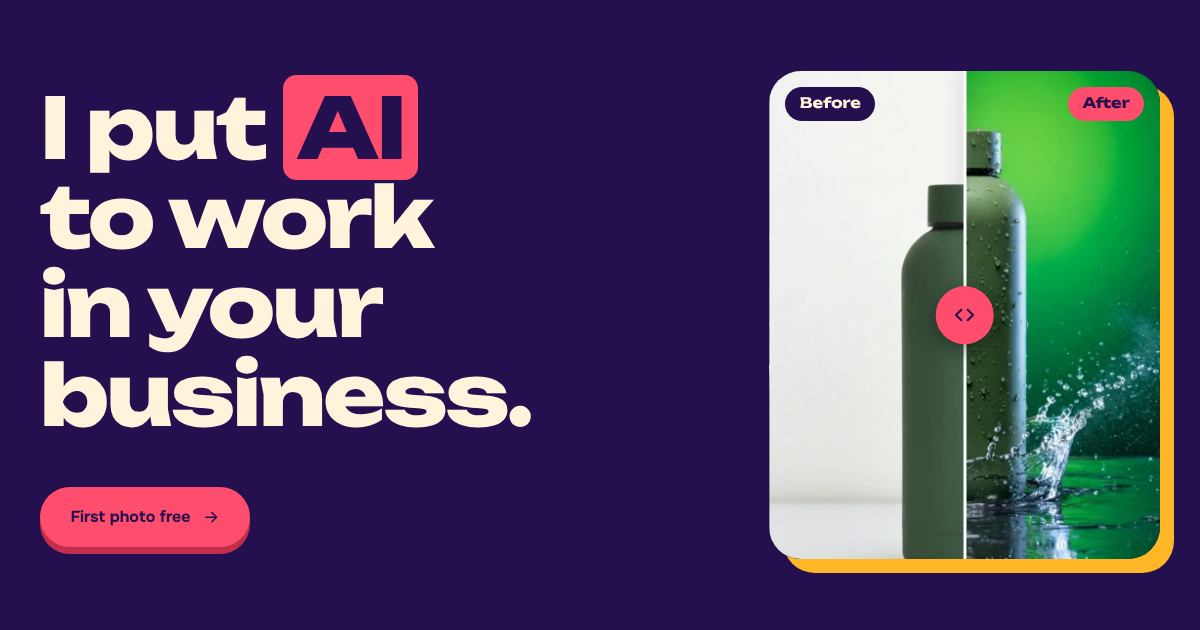
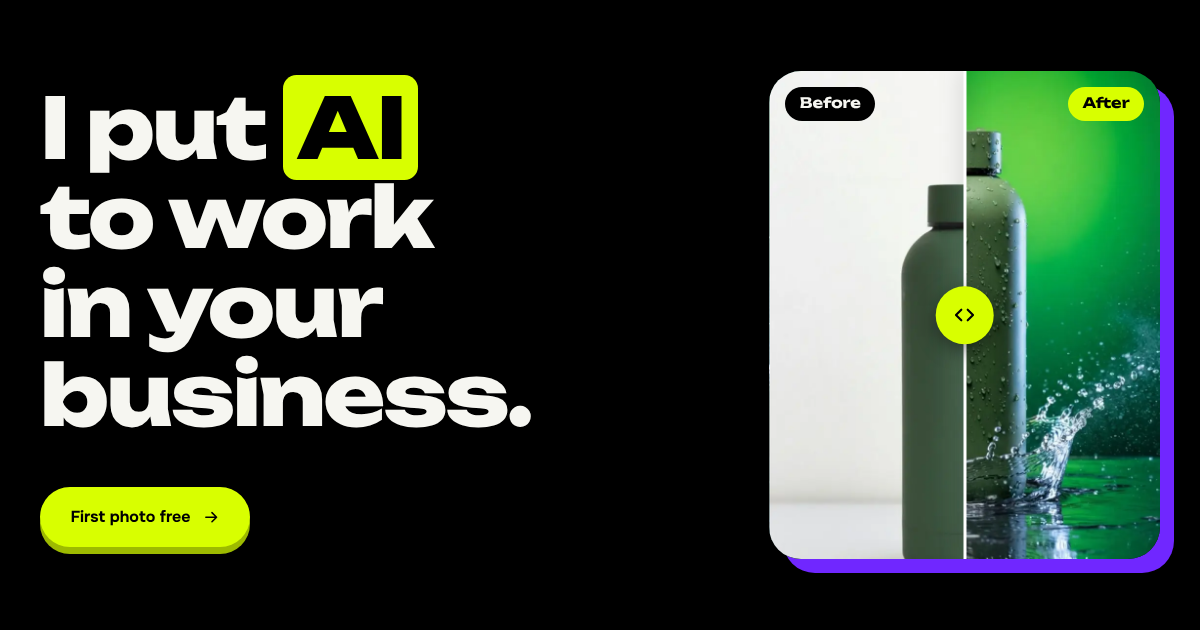
Try the black, violet and lime palette
Third reference palette from the owner: #000000, #7027FF, #D8FF00.
The page is black; lime is the accent and the contact block, violet
the samples block, off-white the text and light tiles.

Claude-Session: https://claude.ai/code/session_01R7rJDpVG89wuy6H5h436fC

diff --git a/v-fast/style.css b/v-fast/style.css
@@ -9,24 +9,26 @@
 @font-face { font-family: "JetBrains Mono"; src: url("./fonts/jetbrains-mono-cyrillic-wght-normal.woff2") format("woff2"); font-weight: 100 800; font-display: swap; unicode-range: U+0301, U+0400-045F, U+0490-0491, U+04B0-04B1, U+2116; }
 
 :root {
-  /* Three-colour palette: coral #FF4D6D, amber #FFB627, indigo #24104F.
-     The page is indigo; coral is the accent, amber the second colour, and a
-     warm white (--ink) is the text and the light contrast surface.
-     Names are roles: --paper page, --ink foreground, --on text on coloured blocks. */
-  --paper: #24104f;
-  --paper-2: #38207a;
-  --card: #2e1763;
-  --ink: #fff3dc;
-  --ink-2: #1a0b3b;
-  --ink-3: #f1dfbf;
-  --muted: #b9a9e6;
-  --muted-d: #b9a9e6;
-  --accent: #ff4d6d;
-  --accent-d: #c42d4b;
-  --olive: #ffb627;
-  --on: #24104f;
-  --line: rgba(255, 243, 220, 0.16);
-  --line-d: rgba(36, 16, 79, 0.3);
+  /* Three-colour palette: black #000000, violet #7027FF, lime #D8FF00.
+     The page is black; lime is the accent, violet the second colour, and an
+     off-white (--ink) is the text and the light contrast surface.
+     Names are roles: --paper page, --ink foreground, --on text on lime,
+     --on-2 text on violet. */
+  --paper: #000000;
+  --paper-2: #222222;
+  --card: #141414;
+  --ink: #f6f6f1;
+  --ink-2: #0c0c0c;
+  --ink-3: #e3e3da;
+  --muted: #a6a6a6;
+  --muted-d: #a6a6a6;
+  --accent: #d8ff00;
+  --accent-d: #9dba00;
+  --olive: #7027ff;
+  --on: #000000;
+  --on-2: #ffffff;
+  --line: rgba(255, 255, 255, 0.18);
+  --line-d: rgba(0, 0, 0, 0.3);
 
   --f-display: "Unbounded", "Arial Black", sans-serif;
   --f-body: "Onest", "Segoe UI", sans-serif;
@@ -49,9 +51,10 @@ body { font-family: var(--f-body); background: var(--paper); color: var(--ink); 
 img, video, svg { display: block; max-width: 100%; }
 a { color: inherit; text-decoration: none; }
 button { font: inherit; color: inherit; cursor: pointer; border: 0; background: none; }
-:focus-visible { outline: 3px solid var(--olive); outline-offset: 3px; border-radius: 6px; }
-.dark :focus-visible { outline-color: var(--on); }
-.dark .form :focus-visible { outline-color: var(--olive); }
+:focus-visible { outline: 3px solid var(--accent); outline-offset: 3px; border-radius: 6px; }
+.dark :focus-visible { outline-color: var(--on-2); }
+#contact :focus-visible { outline-color: var(--on); }
+.dark .form :focus-visible { outline-color: var(--accent); }
 ::selection { background: var(--accent); color: var(--on); }
 
 .wrap { width: min(100% - 2 * var(--pad), 1280px); margin-inline: auto; }
@@ -65,8 +68,8 @@ section { padding-block: var(--sec); }
 mark { background: var(--accent); color: var(--on); padding: 0 0.16em; border-radius: 0.16em; box-decoration-break: clone; -webkit-box-decoration-break: clone; }
 h1 { isolation: isolate; }
 h1 mark { position: relative; z-index: -1; }
-.dark { background: var(--olive); color: var(--on); }
-#contact { background: var(--accent); }
+.dark { background: var(--olive); color: var(--on-2); }
+#contact { background: var(--accent); color: var(--on); }
 .round { border-radius: clamp(1.5rem, 4vw, 3.5rem); margin-inline: clamp(0.4rem, 1vw, 1rem); }
 
 /* Buttons */
@@ -82,7 +85,7 @@ h1 mark { position: relative; z-index: -1; }
 
 /* Nav */
 .nav { position: fixed; inset: 0.75rem 0 auto; z-index: 50; pointer-events: none; }
-.nav__bar { pointer-events: auto; display: flex; align-items: center; gap: 0.75rem; padding: 0.5rem 0.5rem 0.5rem 1.1rem; border-radius: var(--r-full); background: var(--card); border: 1px solid var(--line); box-shadow: 0 8px 30px rgba(10, 4, 28, 0.08); }
+.nav__bar { pointer-events: auto; display: flex; align-items: center; gap: 0.75rem; padding: 0.5rem 0.5rem 0.5rem 1.1rem; border-radius: var(--r-full); background: var(--card); border: 1px solid var(--line); box-shadow: 0 8px 30px rgba(0, 0, 0, 0.08); }
 .logo { display: inline-flex; align-items: center; gap: 0.6rem; font-family: var(--f-display); font-weight: 800; font-size: 0.95rem; letter-spacing: -0.02em; margin-right: auto; white-space: nowrap; }
 .logo i { display: grid; place-items: center; width: 2rem; height: 2rem; border-radius: 0.6rem; background: var(--ink); color: var(--paper); font-style: normal; }
 .nav__links { display: flex; gap: 0.25rem; list-style: none; }
@@ -106,7 +109,7 @@ h1 { font-size: clamp(2.5rem, 7vw, 6.4rem); line-height: 1.06; }
 .cmp__knob { position: absolute; top: 50%; left: 50%; width: 3.6rem; height: 3.6rem; border-radius: 50%; background: var(--accent); color: var(--on); transform: translate(-50%, -50%); display: grid; place-items: center; box-shadow: 0 6px 20px rgba(0, 0, 0, 0.45); }
 .cmp__knob .ico { width: 1.6rem; height: 1.6rem; }
 .cmp input { position: absolute; inset: 0; width: 100%; height: 100%; opacity: 0; cursor: ew-resize; margin: 0; touch-action: pan-y; }
-.cmp:has(input:focus-visible) { outline: 3px solid var(--olive); outline-offset: 3px; }
+.cmp:has(input:focus-visible) { outline: 3px solid var(--accent); outline-offset: 3px; }
 .cmp__lbl { position: absolute; top: 1rem; padding: 0.4rem 0.9rem; border-radius: var(--r-full); font-family: var(--f-display); font-size: clamp(0.8rem, 1.2vw, 1rem); font-weight: 700; pointer-events: none; }
 .cmp__lbl--b { left: 1rem; background: var(--paper); color: var(--ink); }
 .cmp__lbl--a { right: 1rem; background: var(--accent); color: var(--on); }
@@ -119,9 +122,9 @@ h1 { font-size: clamp(2.5rem, 7vw, 6.4rem); line-height: 1.06; }
 .tile__viz { margin-top: auto; padding-top: 2rem; }
 .tile--social { background: var(--accent); color: var(--on); }
 .tile--chat { background: var(--ink); color: var(--on); }
-.tile--code { background: var(--olive); color: var(--on); }
+.tile--code { background: var(--olive); color: var(--on-2); }
 
-.cal { background: var(--ink); border-radius: var(--r-md); padding: 0.8rem; box-shadow: 0 20px 40px -18px rgba(10, 4, 28, 0.5); transform: rotate(-1.5deg); }
+.cal { background: var(--ink); border-radius: var(--r-md); padding: 0.8rem; box-shadow: 0 20px 40px -18px rgba(0, 0, 0, 0.5); transform: rotate(-1.5deg); }
 .cal__grid { display: grid; grid-template-columns: repeat(7, 1fr); gap: 4px; }
 .cal__cell { position: relative; aspect-ratio: 3 / 4; border-radius: 7px; background: var(--ink-3); overflow: hidden; }
 .cal__cell img { width: 100%; height: 100%; object-fit: cover; transform: scale(0); opacity: 0; transition: transform 0.5s var(--spring), opacity 0.3s; }
@@ -140,11 +143,11 @@ h1 { font-size: clamp(2.5rem, 7vw, 6.4rem); line-height: 1.06; }
 @keyframes dot { 30% { transform: translateY(-4px); opacity: 0.4; } }
 @keyframes bub { from { transform: translateY(12px) scale(0.9); opacity: 0; } }
 
-.term { background: var(--paper); color: var(--ink); border-radius: var(--r-md); padding: 0.9rem 1rem 1.1rem; font-family: var(--f-mono); font-size: 0.82rem; line-height: 1.8; min-height: 12.5rem; box-shadow: 0 20px 40px -18px rgba(10, 4, 28, 0.6); }
+.term { background: var(--paper); color: var(--ink); border-radius: var(--r-md); padding: 0.9rem 1rem 1.1rem; font-family: var(--f-mono); font-size: 0.82rem; line-height: 1.8; min-height: 12.5rem; box-shadow: 0 20px 40px -18px rgba(0, 0, 0, 0.6); }
 .term div { white-space: nowrap; overflow: hidden; }
-.term .ok { color: var(--olive); }
+.term .ok { color: var(--accent); }
 .term .dim { color: var(--muted-d); }
-.term .cur::after { content: "▍"; animation: blink 1s steps(2) infinite; color: var(--olive); }
+.term .cur::after { content: "▍"; animation: blink 1s steps(2) infinite; color: var(--accent); }
 @keyframes blink { 50% { opacity: 0; } }
 
 /* 3 — Work: a reel and a moving wall of images */
@@ -171,7 +174,7 @@ h1 { font-size: clamp(2.5rem, 7vw, 6.4rem); line-height: 1.06; }
 .pm__price span { display: block; margin-bottom: 0.3rem; font-family: var(--f-body); font-weight: 500; font-size: 0.85rem; letter-spacing: 0; opacity: 0.65; }
 .pm:nth-child(1) { background: var(--accent); color: var(--on); border-color: var(--accent); }
 /* Same colours as the matching service tiles above. */
-.pm:nth-child(3) { background: var(--olive); color: var(--on); border-color: var(--olive); }
+.pm:nth-child(3) { background: var(--olive); color: var(--on-2); border-color: var(--olive); }
 .pm:nth-child(4) { background: var(--ink); color: var(--on); border-color: var(--ink); }
 .sub { margin: clamp(2.5rem, 5vw, 4rem) 0 1.25rem; font-family: var(--f-display); font-weight: 700; font-size: clamp(1.2rem, 2.2vw, 1.9rem); letter-spacing: -0.02em; }
 .plans { display: grid; grid-template-columns: repeat(3, 1fr); gap: var(--gap); }
@@ -191,13 +194,13 @@ h1 { font-size: clamp(2.5rem, 7vw, 6.4rem); line-height: 1.06; }
 .form { background: var(--paper); color: var(--ink); border-radius: var(--r-lg); padding: clamp(1.25rem, 3vw, 2.25rem); display: grid; gap: 0.9rem; box-shadow: 10px 10px 0 var(--ink); }
 .form label { display: grid; gap: 0.35rem; font-weight: 600; font-size: 0.9rem; }
 .form input, .form textarea { font: inherit; font-size: 1rem; width: 100%; padding: 0.9rem 1rem; border-radius: var(--r-sm); border: 2px solid var(--line); background: var(--card); color: var(--ink); transition: border-color 0.2s; }
-.form input:focus, .form textarea:focus { outline: none; border-color: var(--olive); }
+.form input:focus, .form textarea:focus { outline: none; border-color: var(--accent); }
 .form textarea { min-height: 6.5rem; resize: vertical; }
 .form .hp { position: absolute; left: -9999px; }
 .form small { color: var(--muted); font-size: 0.75rem; line-height: 1.4; }
 .form__msg { font-weight: 600; padding: 0.75rem 1rem; border-radius: var(--r-sm); }
 .form__msg[hidden] { display: none; }
-.form__msg.ok { background: var(--olive); color: var(--on); }
+.form__msg.ok { background: var(--olive); color: var(--on-2); }
 .form__msg.err { background: #ffe1dc; color: #8f1d0c; }
 .form__msg a { text-decoration: underline; }
 .foot { display: flex; flex-wrap: wrap; align-items: center; justify-content: space-between; gap: 1rem; margin-top: clamp(3rem, 7vw, 6rem); padding-top: 1.5rem; border-top: 1px solid var(--line-d); font-size: 0.9rem; color: var(--on); }

diff --git a/v-fast/index.html b/v-fast/index.html
@@ -42,7 +42,7 @@
       name="description"
       content="AI put to work in your business: social media content on autopilot, AI assistants that answer clients, and custom scripts and software for your exact task."
     />
-    <meta name="theme-color" content="#24104f" />
+    <meta name="theme-color" content="#000000" />
     <meta name="color-scheme" content="dark" />
     <link rel="icon" type="image/svg+xml" href="./favicon.svg" />
     <link rel="apple-touch-icon" href="./apple-touch-icon.png" />
